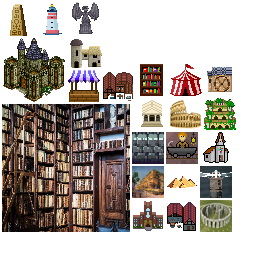
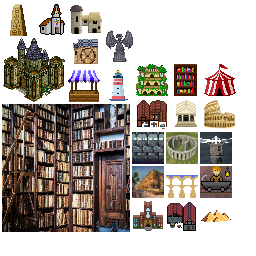
ResearchTree: Implement engineering tech

Changed region(s): [[0.375, 0.25, 0.9375, 0.9062], [0.1562, 0.0, 0.5312, 0.2812]]

diff --git a/server/src/main/java/me/rhin/openciv/server/game/city/building/type/Aqueduct.java b/server/src/main/java/me/rhin/openciv/server/game/city/building/type/Aqueduct.java
@@ -1,0 +1,47 @@
+package me.rhin.openciv.server.game.city.building.type;
+
+import me.rhin.openciv.server.Server;
+import me.rhin.openciv.server.game.city.City;
+import me.rhin.openciv.server.game.city.building.Building;
+import me.rhin.openciv.server.game.research.type.EngineeringTech;
+import me.rhin.openciv.server.listener.CityGrowthListener;
+import me.rhin.openciv.shared.stat.Stat;
+
+public class Aqueduct extends Building implements CityGrowthListener {
+
+	public Aqueduct(City city) {
+		super(city);
+
+		this.statLine.addValue(Stat.MAINTENANCE, 1);
+
+		Server.getInstance().getEventManager().addListener(CityGrowthListener.class, this);
+	}
+
+	@Override
+	public void onCityGrowth(City city, float population, float foodSurplus) {
+		if (!city.getBuildings().contains(this))
+			return;
+
+		city.getStatLine().setValue(Stat.FOOD_SURPLUS, foodSurplus * 0.4F);
+	}
+
+	@Override
+	public boolean meetsProductionRequirements() {
+		return city.getPlayerOwner().getResearchTree().hasResearched(EngineeringTech.class);
+	}
+
+	@Override
+	public float getGoldCost() {
+		return 200;
+	}
+
+	@Override
+	public float getBuildingProductionCost() {
+		return 100;
+	}
+
+	@Override
+	public String getName() {
+		return "Aqueduct";
+	}
+}

diff --git a/server/src/main/java/me/rhin/openciv/server/game/research/ResearchTree.java b/server/src/main/java/me/rhin/openciv/server/game/research/ResearchTree.java
@@ -13,6 +13,7 @@ import me.rhin.openciv.server.game.research.type.ArcheryTech;
 import me.rhin.openciv.server.game.research.type.BronzeWorkingTech;
 import me.rhin.openciv.server.game.research.type.CalendarTech;
 import me.rhin.openciv.server.game.research.type.ConstructionTech;
+import me.rhin.openciv.server.game.research.type.EngineeringTech;
 import me.rhin.openciv.server.game.research.type.HorsebackRidingTech;
 import me.rhin.openciv.server.game.research.type.IronWorkingTech;
 import me.rhin.openciv.server.game.research.type.MasonryTech;
@@ -60,6 +61,7 @@ public class ResearchTree implements NextTurnListener {
 		technologies.put(MathematicsTech.class, new MathematicsTech(this));
 		technologies.put(ConstructionTech.class, new ConstructionTech(this));
 		technologies.put(IronWorkingTech.class, new IronWorkingTech(this));
+		technologies.put(EngineeringTech.class, new EngineeringTech(this));
 		technologies.put(MetalCastingTech.class, new MetalCastingTech(this));
 
 		Server.getInstance().getEventManager().addListener(NextTurnListener.class, this);

diff --git a/core/src/main/java/me/rhin/openciv/game/research/ResearchTree.java b/core/src/main/java/me/rhin/openciv/game/research/ResearchTree.java
@@ -10,6 +10,7 @@ import me.rhin.openciv.game.research.type.ArcheryTech;
 import me.rhin.openciv.game.research.type.BronzeWorkingTech;
 import me.rhin.openciv.game.research.type.CalendarTech;
 import me.rhin.openciv.game.research.type.ConstructionTech;
+import me.rhin.openciv.game.research.type.EngineeringTech;
 import me.rhin.openciv.game.research.type.HorsebackRridingTech;
 import me.rhin.openciv.game.research.type.IronWorkingTech;
 import me.rhin.openciv.game.research.type.MasonryTech;
@@ -55,6 +56,7 @@ public class ResearchTree implements PickResearchListener, CompleteResearchListe
 		technologies.put(MathematicsTech.class, new MathematicsTech(this));
 		technologies.put(ConstructionTech.class, new ConstructionTech(this));
 		technologies.put(IronWorkingTech.class, new IronWorkingTech(this));
+		technologies.put(EngineeringTech.class, new EngineeringTech(this));
 		technologies.put(MetalCastingTech.class, new MetalCastingTech(this));
 
 		Civilization.getInstance().getEventManager().addListener(PickResearchListener.class, this);

diff --git a/core/src/main/java/me/rhin/openciv/game/city/building/type/Aqueduct.java b/core/src/main/java/me/rhin/openciv/game/city/building/type/Aqueduct.java
@@ -1,0 +1,47 @@
+package me.rhin.openciv.game.city.building.type;
+
+import me.rhin.openciv.asset.TextureEnum;
+import me.rhin.openciv.game.city.City;
+import me.rhin.openciv.game.city.building.Building;
+import me.rhin.openciv.game.research.type.EngineeringTech;
+import me.rhin.openciv.shared.stat.Stat;
+
+public class Aqueduct extends Building {
+
+	public Aqueduct(City city) {
+		super(city);
+		
+		this.statLine.addValue(Stat.MAINTENANCE, 1);
+	}
+
+	@Override
+	public TextureEnum getTexture() {
+		return TextureEnum.BUILDING_AQUEDUCT;
+	}
+
+	@Override
+	public boolean meetsProductionRequirements() {
+		return city.getPlayerOwner().getResearchTree().hasResearched(EngineeringTech.class);
+	}
+
+	@Override
+	public String getDesc() {
+		return "On city growth, 40% of stored\nfood carries over.";
+	}
+
+	@Override
+	public float getGoldCost() {
+		return 200;
+	}
+
+	@Override
+	public float getBuildingProductionCost() {
+		return 100;
+	}
+
+	@Override
+	public String getName() {
+		return "Aqueduct";
+	}
+
+}

diff --git a/server/src/main/java/me/rhin/openciv/server/game/research/type/EngineeringTech.java b/server/src/main/java/me/rhin/openciv/server/game/research/type/EngineeringTech.java
@@ -1,0 +1,33 @@
+package me.rhin.openciv.server.game.research.type;
+
+import me.rhin.openciv.server.game.research.ResearchTree;
+import me.rhin.openciv.server.game.research.TechProperty;
+import me.rhin.openciv.server.game.research.Technology;
+import me.rhin.openciv.shared.stat.Stat;
+
+public class EngineeringTech extends Technology {
+
+	public EngineeringTech(ResearchTree researchTree) {
+		super(researchTree, TechProperty.FOOD, TechProperty.GOLD);
+
+		requiredTechs.add(MathematicsTech.class);
+		requiredTechs.add(ConstructionTech.class);
+	}
+
+	@Override
+	public void onResearched() {
+		researchTree.getPlayerOwner().getStatLine().addValue(Stat.MAX_TRADE_ROUTES, 1);
+		researchTree.getPlayerOwner().updateOwnedStatlines(false);
+	}
+
+	@Override
+	public int getScienceCost() {
+		return 175;
+	}
+
+	@Override
+	public String getName() {
+		return "Engineering";
+	}
+
+}

diff --git a/server/src/main/java/me/rhin/openciv/server/listener/CityGrowthListener.java b/server/src/main/java/me/rhin/openciv/server/listener/CityGrowthListener.java
@@ -8,20 +8,24 @@ import me.rhin.openciv.shared.listener.Listener;
 
 public interface CityGrowthListener extends Listener {
 
-	public void onCityGrowth(City city);
+	public void onCityGrowth(City city, float population, float foodSurplus);
 
 	public static class CityGrowthEvent extends Event<CityGrowthListener> {
 
 		private City city;
+		private float population;
+		private float foodSurplus;
 
-		public CityGrowthEvent(City city) {
+		public CityGrowthEvent(City city, float population, float foodSurplus) {
 			this.city = city;
+			this.population = population;
+			this.foodSurplus = foodSurplus;
 		}
 
 		@Override
 		public void fire(ArrayList<CityGrowthListener> listeners) {
 			for (CityGrowthListener listener : listeners) {
-				listener.onCityGrowth(city);
+				listener.onCityGrowth(city, population, foodSurplus);
 			}
 		}
 

diff --git a/server/src/main/java/me/rhin/openciv/server/game/production/ProducibleItemManager.java b/server/src/main/java/me/rhin/openciv/server/game/production/ProducibleItemManager.java
@@ -10,6 +10,7 @@ import com.badlogic.gdx.utils.Json;
 import me.rhin.openciv.server.Server;
 import me.rhin.openciv.server.game.city.City;
 import me.rhin.openciv.server.game.city.building.Building;
+import me.rhin.openciv.server.game.city.building.type.Aqueduct;
 import me.rhin.openciv.server.game.city.building.type.Circus;
 import me.rhin.openciv.server.game.city.building.type.Colosseum;
 import me.rhin.openciv.server.game.city.building.type.Forge;
@@ -112,6 +113,7 @@ public class ProducibleItemManager implements NextTurnListener {
 		possibleItems.put("Stoneworks", new Stoneworks(city));
 		possibleItems.put("Forge", new Forge(city));
 		possibleItems.put("Workshop", new Workshop(city));
+		possibleItems.put("Aqueduct", new Aqueduct(city));
 
 		// Wonders
 		possibleItems.put("Great Pyramids", new GreatPyramids(city));

diff --git a/core/src/main/java/me/rhin/openciv/game/research/type/EngineeringTech.java b/core/src/main/java/me/rhin/openciv/game/research/type/EngineeringTech.java
@@ -1,0 +1,38 @@
+package me.rhin.openciv.game.research.type;
+
+import com.badlogic.gdx.graphics.g2d.Sprite;
+
+import me.rhin.openciv.asset.TextureEnum;
+import me.rhin.openciv.game.research.ResearchTree;
+import me.rhin.openciv.game.research.Technology;
+
+public class EngineeringTech extends Technology {
+
+	public EngineeringTech(ResearchTree researchTree) {
+		super(researchTree);
+		
+		requiredTechs.add(MathematicsTech.class);
+		requiredTechs.add(ConstructionTech.class);
+	}
+
+	@Override
+	public int getScienceCost() {
+		return 175;
+	}
+
+	@Override
+	public String getName() {
+		return "Engineering";
+	}
+
+	@Override
+	public Sprite getIcon() {
+		return TextureEnum.BUILDING_AQUEDUCT.sprite();
+	}
+
+	@Override
+	public String getDesc() {
+		return "- Unlocks aqueduct building\n- +1 Trade route";
+	}
+
+}

diff --git a/core/src/main/java/me/rhin/openciv/game/production/ProducibleItemManager.java b/core/src/main/java/me/rhin/openciv/game/production/ProducibleItemManager.java
@@ -9,6 +9,7 @@ import com.badlogic.gdx.Gdx;
 
 import me.rhin.openciv.Civilization;
 import me.rhin.openciv.game.city.City;
+import me.rhin.openciv.game.city.building.type.Aqueduct;
 import me.rhin.openciv.game.city.building.type.Circus;
 import me.rhin.openciv.game.city.building.type.Colosseum;
 import me.rhin.openciv.game.city.building.type.Forge;
@@ -100,6 +101,7 @@ public class ProducibleItemManager {
 		possibleItems.put("Stoneworks", new Stoneworks(city));
 		possibleItems.put("Forge", new Forge(city));
 		possibleItems.put("Workshop", new Workshop(city));
+		possibleItems.put("Aqueduct", new Aqueduct(city));
 		
 		// Wonders
 		possibleItems.put("Great Pyramids", new GreatPyramids(city));

diff --git a/server/src/main/java/me/rhin/openciv/server/game/city/City.java b/server/src/main/java/me/rhin/openciv/server/game/city/City.java
@@ -685,11 +685,13 @@ public class City
 
 	private void setPopulation(int amount) {
 		float popDiff = amount - statLine.getStatValue(Stat.POPULATION);
+		float foodSurplus = statLine.getStatValue(Stat.FOOD_SURPLUS);
+
 		statLine.setValue(Stat.POPULATION, amount);
 		statLine.setValue(Stat.FOOD_SURPLUS, 0);
 
 		if (amount > 0) {
-			Server.getInstance().getEventManager().fireEvent(new CityGrowthEvent(this));
+			Server.getInstance().getEventManager().fireEvent(new CityGrowthEvent(this, amount, foodSurplus));
 			statLine.addValue(Stat.SCIENCE_GAIN, 0.5F);
 			subMorale(5 * popDiff);
 		} else {

diff --git a/server/src/main/java/me/rhin/openciv/server/game/city/building/type/Library.java b/server/src/main/java/me/rhin/openciv/server/game/city/building/type/Library.java
@@ -36,10 +36,11 @@ public class Library extends Building implements CityGrowthListener, CityStarveL
 			return;
 
 		city.getStatLine().subValue(Stat.SCIENCE_GAIN, 0.5F);
-		
+
 	}
+
 	@Override
-	public void onCityGrowth(City city) {
+	public void onCityGrowth(City city, float population, float foodSurplus) {
 		if (!city.getBuildings().contains(this))
 			return;
 
@@ -50,7 +51,7 @@ public class Library extends Building implements CityGrowthListener, CityStarveL
 	public float getBuildingProductionCost() {
 		return 75;
 	}
-	
+
 	@Override
 	public float getGoldCost() {
 		return 175;

diff --git a/server/src/main/java/me/rhin/openciv/server/game/heritage/type/all/TaxesHeritage.java b/server/src/main/java/me/rhin/openciv/server/game/heritage/type/all/TaxesHeritage.java
@@ -49,7 +49,7 @@ public class TaxesHeritage extends Heritage implements CityGrowthListener, CityS
 	}
 
 	@Override
-	public void onCityGrowth(City city) {
+	public void onCityGrowth(City city, float population, float foodSurplus) {
 		if (!isStudied() || !player.getOwnedCities().contains(city))
 			return;
 
